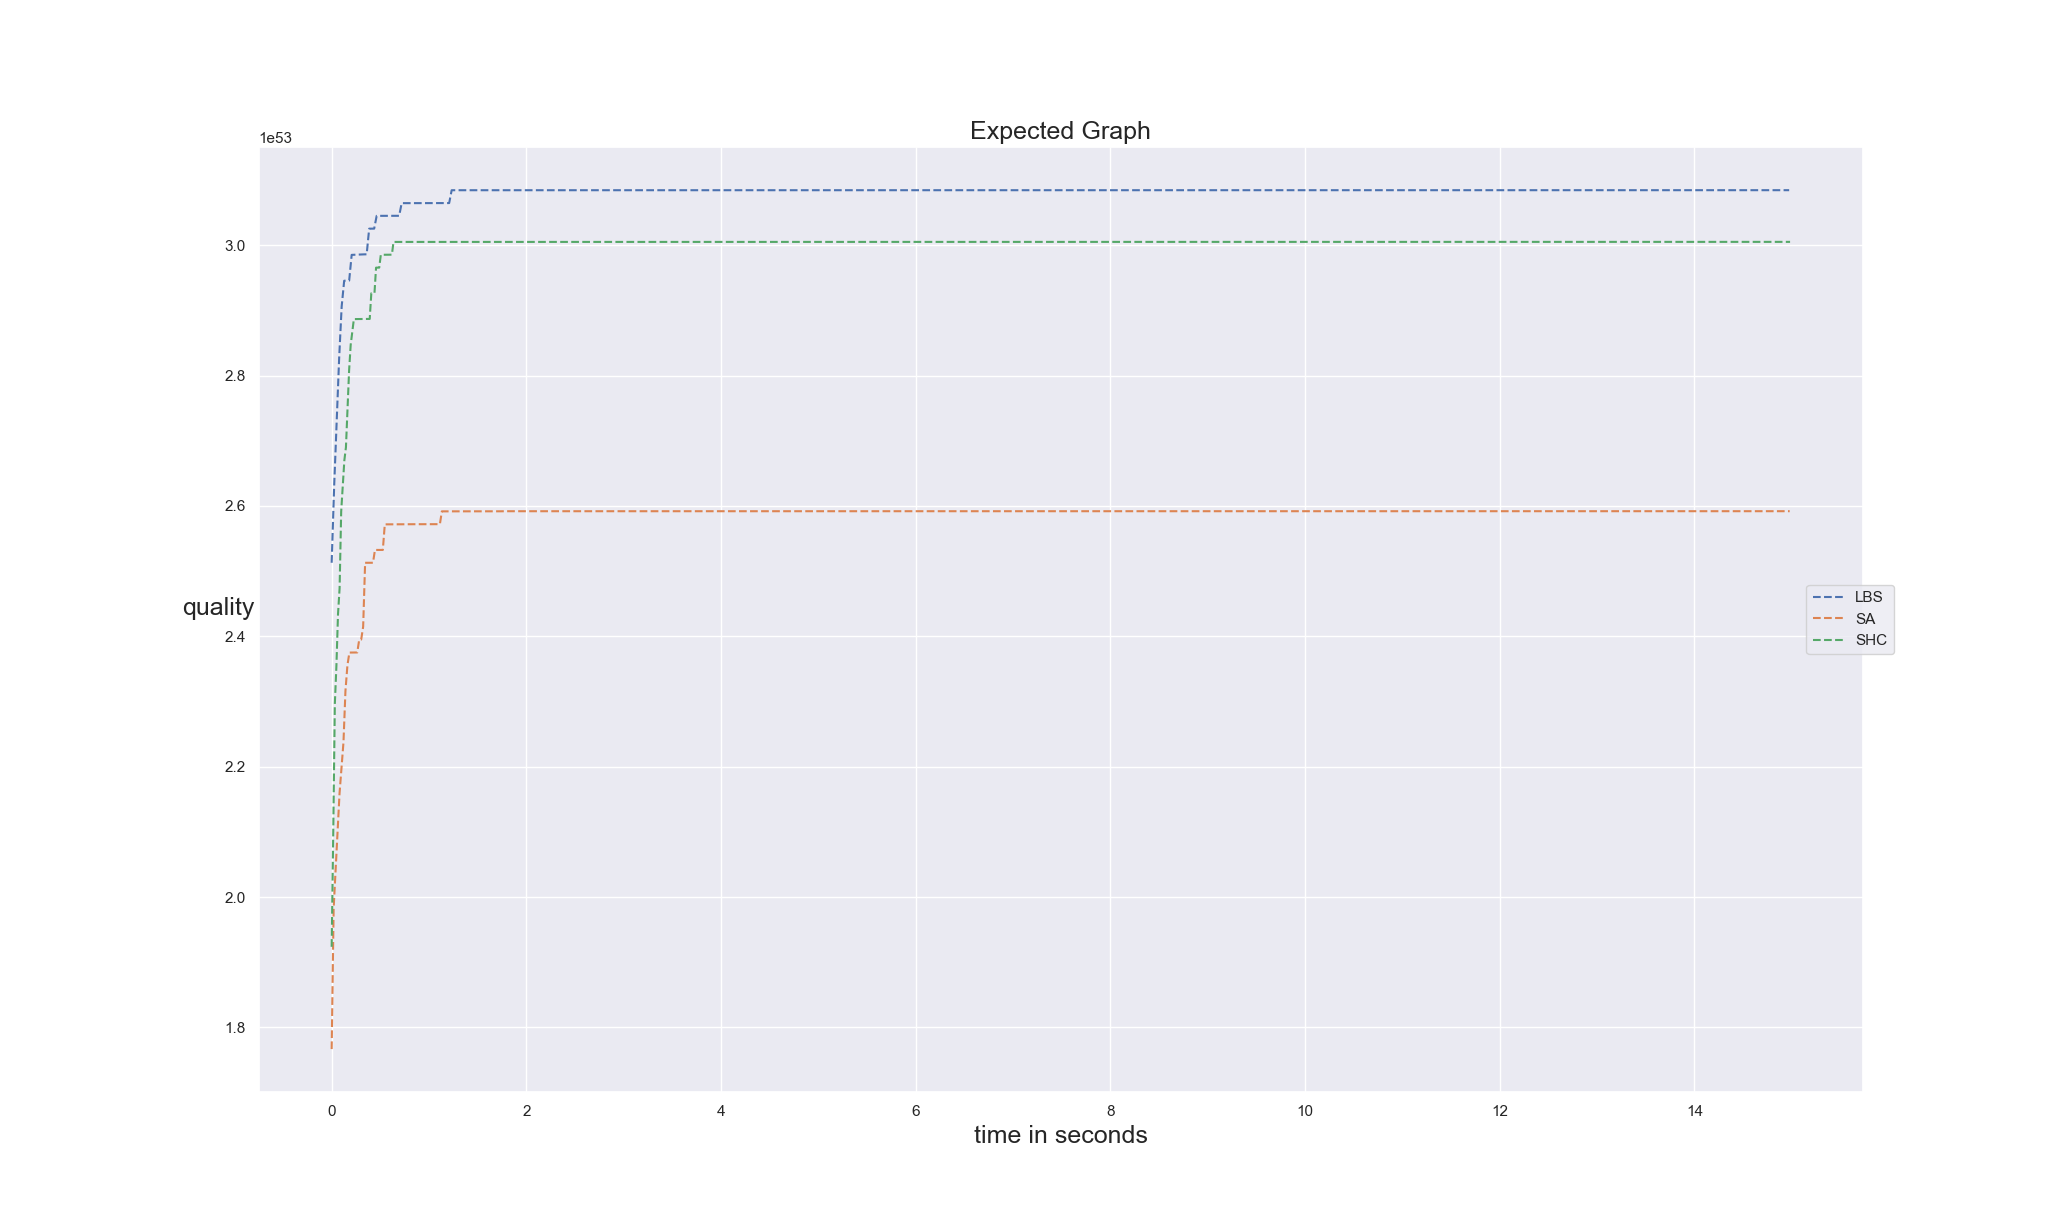
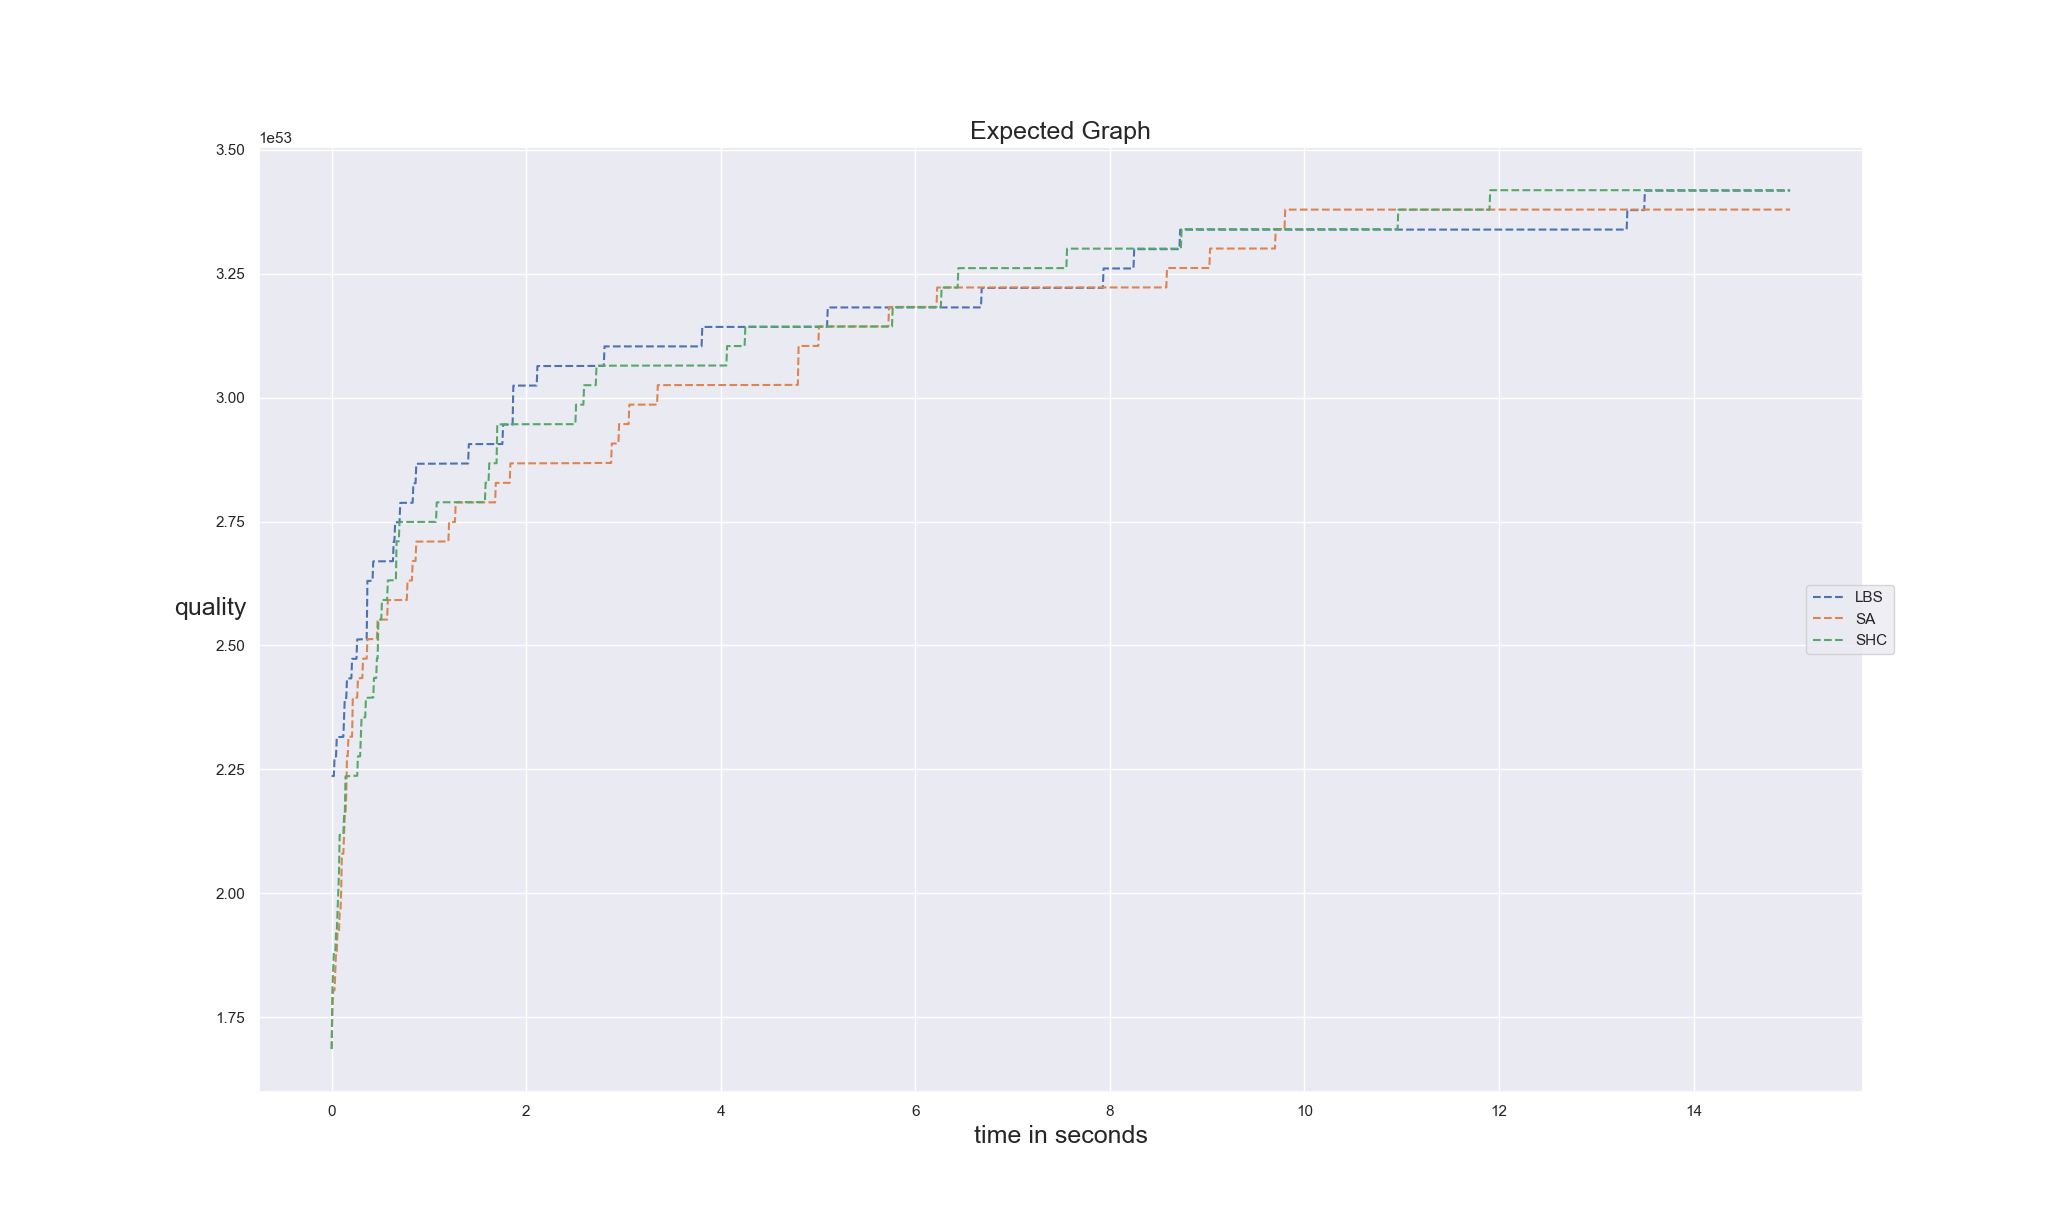
changed all paths to be relative. prep for aws cloud

diff --git a/local_search_automization/automate_whole_process.py b/local_search_automization/automate_whole_process.py
@@ -1,4 +1,5 @@
 import os
+import random
 
 from automized_helpers.allAlgsBestParams import run_algs_with_optimal_params
 from automized_helpers.bestParams_final_run_file import automize_final_run_file
@@ -196,26 +197,42 @@ class COPLocalSearchAlgorithmsAveraging:
         Returns:
             None.
         """
-        automize_combined_expected_graphs(self.cpp_dataframes_path + "expected_dataframes\\",
-                                          self.python_dataframes_path + "expected_dataframes\\",
+        automize_combined_expected_graphs(self.cpp_dataframes_path + "expected_dataframes/",
+                                          self.python_dataframes_path + "expected_dataframes/",
                                           self.graphs_path)
 
 
 if __name__ == '__main__':
-    problemCreatorPath = r'C:\Users\evgni\Desktop\Projects\LocalSearch\Debug\LocalSearchProblemGenerator.exe'
-    graphs_path = r'C:\Users\evgni\Desktop\projects_mine\ref\ref\copsimpleai\graphs\\'
-    cpp_dataframes_path = r'C:\Users\evgni\Desktop\projects_mine\ref\ref\copsimpleai\cpp_dataframes\\'
-    results_path = r'C:\Users\evgni\Desktop\Projects\LocalSearch\LocalSearch\Results\\'
-    run_file = r'C:\Users\evgni\Desktop\Projects\LocalSearch\LocalSearch\BestParamsPerAlgo\final_run.txt'
-    LS_exe = r'C:\Users\evgni\Desktop\Projects\LocalSearch\Debug\LocalSearch.exe'
-    path_best_args = r'C:\Users\evgni\Desktop\Projects\LocalSearch\LocalSearch\BestParamsPerAlgo\best_values_for_algs\\'
-    best_params_path = r'C:\Users\evgni\Desktop\Projects\LocalSearch\LocalSearch\BestParamsPerAlgo\\'
-    python_dataframes_path = r'C:\Users\evgni\Desktop\projects_mine\ref\ref\copsimpleai\python_dataframes\\'
+    # problemCreatorPath = r'C:\Users\evgni\Desktop\Projects\LocalSearch\Debug\LocalSearchProblemGenerator.exe'
+    # graphs_path = r'C:\Users\evgni\Desktop\projects_mine\ref\ref\copsimpleai\graphs\\'
+    # cpp_dataframes_path = r'C:\Users\evgni\Desktop\projects_mine\ref\ref\copsimpleai\cpp_dataframes\\'
+    # results_path = r'C:\Users\evgni\Desktop\Projects\LocalSearch\LocalSearch\Results\\'
+    # run_file = r'C:\Users\evgni\Desktop\Projects\LocalSearch\LocalSearch\BestParamsPerAlgo\final_run.txt'
+    # LS_exe = r'C:\Users\evgni\Desktop\Projects\LocalSearch\Debug\LocalSearch.exe'
+    # path_best_args = r'C:\Users\evgni\Desktop\Projects\LocalSearch\LocalSearch\BestParamsPerAlgo\best_values_for_algs\\'
+    # best_params_path = r'C:\Users\evgni\Desktop\Projects\LocalSearch\LocalSearch\BestParamsPerAlgo\\'
+    # python_dataframes_path = r'C:\Users\evgni\Desktop\projects_mine\ref\ref\copsimpleai\python_dataframes\\'
+
+    problemCreatorPath = r'../LocalSearchProblemGenerator/Debug/LocalSearchProblemGenerator.exe'
+    graphs_path = r'../copsimpleai/graphs/'
+    cpp_dataframes_path = r'../copsimpleai/cpp_dataframes/'
+    results_path = r'../copsimpleai/LocalSearch/Results/'
+    run_file = r'../copsimpleai/LocalSearch/BestParamsPerAlgo/final_run.txt'
+    LS_exe = r'../LocalSearch/Debug/LocalSearch.exe'
+    path_best_args = r'../copsimpleai/LocalSearch/BestParamsPerAlgo/best_values_for_algs/'
+    best_params_path = r'../copsimpleai/LocalSearch/BestParamsPerAlgo/'
+    python_dataframes_path = r'../copsimpleai/python_dataframes/'
 
     run_time = 1.0
-    num_iterations = 24  # used for optuna as number of trials, has to be accurate
+    num_iterations = 6  # used for optuna as number of trials, has to be accurate
     algo_seed = '331991908'
-    problem_set = ['271', '291', '375', '390', '500', '504', '549', '567', '643', '805', '1101', '1125', '2923', '3562']
+    # problem_set = ['291']
+    problem_set = ['2656', '2701', '2734', '2869', '3118', '3223', '3258']
+    # problem_set = ['2656', '2701', '2734', '2869', '3118', '3223', '3258', '3272', '3434', '3487', '3690',
+    #        '3786', '3791', '4160', '4233', '4273', '4326', '4430', '4620', '4952']
+    # problems = [str(random.randint(2500, 5000)) for _ in range(20)]
+    # problem_set = problems.copy()
+    # problem_set = ['271', '291', '375', '390', '500', '504', '549', '567', '643', '805', '1101', '1125', '2923', '3562']
     # algorithms = ['GREAT_DELUGE', 'SLBS', 'RS', 'RW', 'SHC', 'GREEDY', 'TS', 'SA', 'CE',
     #               'GREEDY+GREAT_DELUGE', 'GREEDY+SLBS', 'GREEDY+RS', 'GREEDY+RW', 'GREEDY+SHC', 'GREEDYLOOP',
     #               'GREEDY+TS', 'GREEDY+SA', 'GREEDY+CE']
@@ -241,20 +258,32 @@ if __name__ == '__main__':
                                                           backup=True)
 
     # COP_automized_run.generate_problems_from_seeds()
-    COP_automized_run.run_optuna_param_optimization()  # run this if first you want to know the optimal params
-    COP_automized_run.find_best_params_run_then_output_expected_graphs(print_graphs_bool=False, ran_optimal_params=False)  # if optimal params already exist run this
+    # COP_automized_run.run_optuna_param_optimization()  # run this if first you want to know the optimal params
+    # COP_automized_run.find_best_params_run_then_output_expected_graphs(print_graphs_bool=False, ran_optimal_params=False)  # if optimal params already exist run this
 
-    python_results_path = r'C:\Users\evgni\Desktop\projects_mine\ref\ref\copsimpleai\Results\\'
-    python_run_file = r'C:\Users\evgni\Desktop\projects_mine\ref\ref\copsimpleai\BestParamsPerAlgo\python_final_run.txt'
-    python_exe = r'C:\Users\evgni\Desktop\projects_mine\ref\ref\copsimpleai\allAlgsInterface.py'
-    python_path_best_args = r'C:\Users\evgni\Desktop\projects_mine\ref\ref\copsimpleai\BestParamsPerAlgo\best_values_for_algs\\'
-    python_best_params_path = r'C:\Users\evgni\Desktop\projects_mine\ref\ref\copsimpleai\BestParamsPerAlgo\\'
-    # python_dataframes_path = r'C:\Users\evgni\Desktop\projects_mine\ref\ref\copsimpleai\python_dataframes\\'
+    # python_results_path = r'C:\Users\evgni\Desktop\projects_mine\ref\ref\copsimpleai\Results\\'
+    # python_run_file = r'C:\Users\evgni\Desktop\projects_mine\ref\ref\copsimpleai\BestParamsPerAlgo\python_final_run.txt'
+    # python_exe = r'C:\Users\evgni\Desktop\projects_mine\ref\ref\copsimpleai\allAlgsInterface.py'
+    # python_path_best_args = r'C:\Users\evgni\Desktop\projects_mine\ref\ref\copsimpleai\BestParamsPerAlgo\best_values_for_algs\\'
+    # python_best_params_path = r'C:\Users\evgni\Desktop\projects_mine\ref\ref\copsimpleai\BestParamsPerAlgo\\'
+    # # python_dataframes_path = r'C:\Users\evgni\Desktop\projects_mine\ref\ref\copsimpleai\python_dataframes\\'
+
+    python_results_path = r'../copsimpleai/Results/'
+    python_run_file = r'../copsimpleai/BestParamsPerAlgo/python_final_run.txt'
+    python_exe = r'../copsimpleai/allAlgsInterface.py'
+    python_path_best_args = r'../copsimpleai/BestParamsPerAlgo/best_values_for_algs/'
+    python_best_params_path = r'../copsimpleai/BestParamsPerAlgo/'
 
     python_run_time = 15.0
-    python_num_iterations = 24
+    python_num_iterations = 6
     python_algo_seed = '331991908'
-    python_problem_set = ['271', '291', '375', '390', '500', '504', '549', '567', '643', '805', '1101', '1125', '2923', '3562']
+    # python_problem_set = ['291']
+    #
+    python_problem_set = ['2656', '2701', '2734', '2869', '3118', '3223', '3258']
+
+    # python_problem_set = ['2656', '2701', '2734', '2869', '3118', '3223', '3258', '3272', '3434', '3487', '3690',
+    #        '3786', '3791', '4160', '4233', '4273', '4326', '4430', '4620', '4952']
+    # python_problem_set = ['271', '291', '375', '390', '500', '504', '549', '567', '643', '805', '1101', '1125', '2923', '3562']
     python_algs = ['LBS', 'SHC', 'SA']
     python_num_workers = 4
 

diff --git a/local_search_automization/automized_helpers/allAlgsBestParams.py b/local_search_automization/automized_helpers/allAlgsBestParams.py
@@ -1,3 +1,4 @@
+import os
 import subprocess
 import optuna
 from functools import partial
@@ -94,7 +95,7 @@ def best_params_for_all_algos(path, output_path, algorithms, problem_seeds, algo
         Returns:
              None.
         """
-        with open(path + rf'best_values_for_algs\bestValue_for_{algo}_problem_{prob_seed}.txt', "a") as txt_file:
+        with open(path + rf'best_values_for_algs/bestValue_for_{algo}_problem_{prob_seed}.txt', "a") as txt_file:
                 txt_file.write(str(study.best_value) + '\n')
 
     direction = 'maximize' if python else 'minimize'
@@ -106,7 +107,7 @@ def best_params_for_all_algos(path, output_path, algorithms, problem_seeds, algo
             run_optuna_func = partial(run_optuna, algo=algo, problem_seed=problem_seed, algo_seed=algo_seed, python=python, run_time=run_time)
             call_back_func = partial(print_best_callback, path=output_path, algo=algo, prob_seed=problem_seed)
             study = optuna.create_study(study_name='test', direction=direction)
-            study.optimize(run_optuna_func, n_trials=num_iterations, callbacks=[call_back_func], n_jobs=-1)  # -1 means maximum cpu capacity
+            study.optimize(run_optuna_func, n_trials=num_iterations, callbacks=[call_back_func], n_jobs=6)  # -1 means maximum cpu capacity
             best_params_per_algo_temp.append((algo, problem_seed, algo_seed, study.best_trial.params))
         temp_arr.extend(best_params_per_algo_temp)
         with open(output_path + rf'bestParams_problem_{problem_seed}.txt', "w") as txt_file:
@@ -193,3 +194,9 @@ def problemCreatorFromCPP(problem_seeds, path, num_workers):
     with ThreadPoolExecutor(max_workers=num_workers) as executor:
         for _ in range(num_workers):
             executor.submit(problemCreatorWorker, path, run_que)
+#
+#
+# if __name__ == '__main__':
+#     print("current working directory: ", os.getcwd())
+#     path = r'C:\Users\evgni\Desktop\projects_mine\ref\ref\LocalSearchProblemGenerator\Debug\LocalSearchProblemGenerator.exe'
+#     problemCreatorFromCPP(['2656'], path, 1)

diff --git a/local_search_automization/automized_helpers/create_all_graphs_from_best_params.py b/local_search_automization/automized_helpers/create_all_graphs_from_best_params.py
@@ -2,14 +2,14 @@ from create_expected_optuna_graph import automize_optuna_expected_graph
 from create_graphs_and_expected_graph import automize_expected_graph
 
 if __name__ == '__main__':
-    path = r'C:\Users\evgni\Desktop\Projects\LocalSearch\LocalSearch\Results\\'
+    path = r'C:/Users/evgni/Desktop/Projects/LocalSearch/LocalSearch/Results/'
     num_algos = 18
     num_problems = 14
 
-    target_location = r'C:\Users\evgni\Desktop\Projects\LocalSearch\LocalSearch\BestParamsPerAlgo\\'
+    target_location = r'C:/Users/evgni/Desktop/Projects/LocalSearch/LocalSearch/BestParamsPerAlgo/'
     problem_set = ['182', '271', '291', '375', '390', '504', '549', '567', '643', '805', '1101', '1125', '2923', '3562']
 
-    path_best_args = r'C:\Users\evgni\Desktop\Projects\LocalSearch\LocalSearch\BestParamsPerAlgo\best_values_for_algs\\'
+    path_best_args = r'C:/Users/evgni/Desktop/Projects/LocalSearch/LocalSearch/BestParamsPerAlgo/best_values_for_algs/'
     num_iterations = 20
 
     automize_optuna_expected_graph(path_best_args, num_algos, num_problems, num_iterations)

diff --git a/local_search_automization/automized_helpers/create_graphs_and_expected_graph.py b/local_search_automization/automized_helpers/create_graphs_and_expected_graph.py
@@ -484,9 +484,9 @@ def expected_dfs_to_csv_inpalce(same_dim_benchmark_after_normalize_fixed_time, p
     """
     for expected_df in same_dim_benchmark_after_normalize_fixed_time:
         if python:
-            expected_df.to_csv(python_dataframes_path + fr'expected_dataframes\python_expected_df{expected_df.columns[0]}.csv', index=False)
+            expected_df.to_csv(python_dataframes_path + fr'expected_dataframes/python_expected_df{expected_df.columns[0]}.csv', index=False)
         else:
-            expected_df.to_csv(cpp_dataframes_path + fr'expected_dataframes\cpp_expected_df{expected_df.columns[0]}.csv', index=False)
+            expected_df.to_csv(cpp_dataframes_path + fr'expected_dataframes/cpp_expected_df{expected_df.columns[0]}.csv', index=False)
 
 
 def expected_graph_all_algs(same_dim_benchmark_after_normalize_fixed_time, python, graphs_path):

diff --git a/copsimpleai/allAlgsInterface.py b/copsimpleai/allAlgsInterface.py
@@ -1,3 +1,4 @@
+import os
 import sys
 # need to append the simpleaipack into sys.path so python interpreter will detect it.
 sys.path.append(r'C:\Users\evgni\Desktop\projects_mine\ref\ref')
@@ -10,7 +11,7 @@ interface for python local search algorithms within SimpleAi package.
 """
 
 if __name__ == '__main__':
-    path = r'C:\Users\evgni\Desktop\projects_mine\ref\ref\copsimpleai\CPP_Problems\\'
+    path = r'..\copsimpleai\CPP_Problems\\'
     alg_name = sys.argv[1]
     problem_seed = sys.argv[2]
     run_time = sys.argv[3]

diff --git a/copsimpleai/cop.py b/copsimpleai/cop.py
@@ -42,7 +42,7 @@ class COP(SearchProblem):
                 SolutionVector state but only generate 50 of them.
             can be changed to increase performance but run slower.
         """
-        self.availableStatesSize = 50
+        self.availableStatesSize = 1
         self.algoName = algoName
         self.algoSeed = algoSeed
         self.problemSeed = problemSeed
